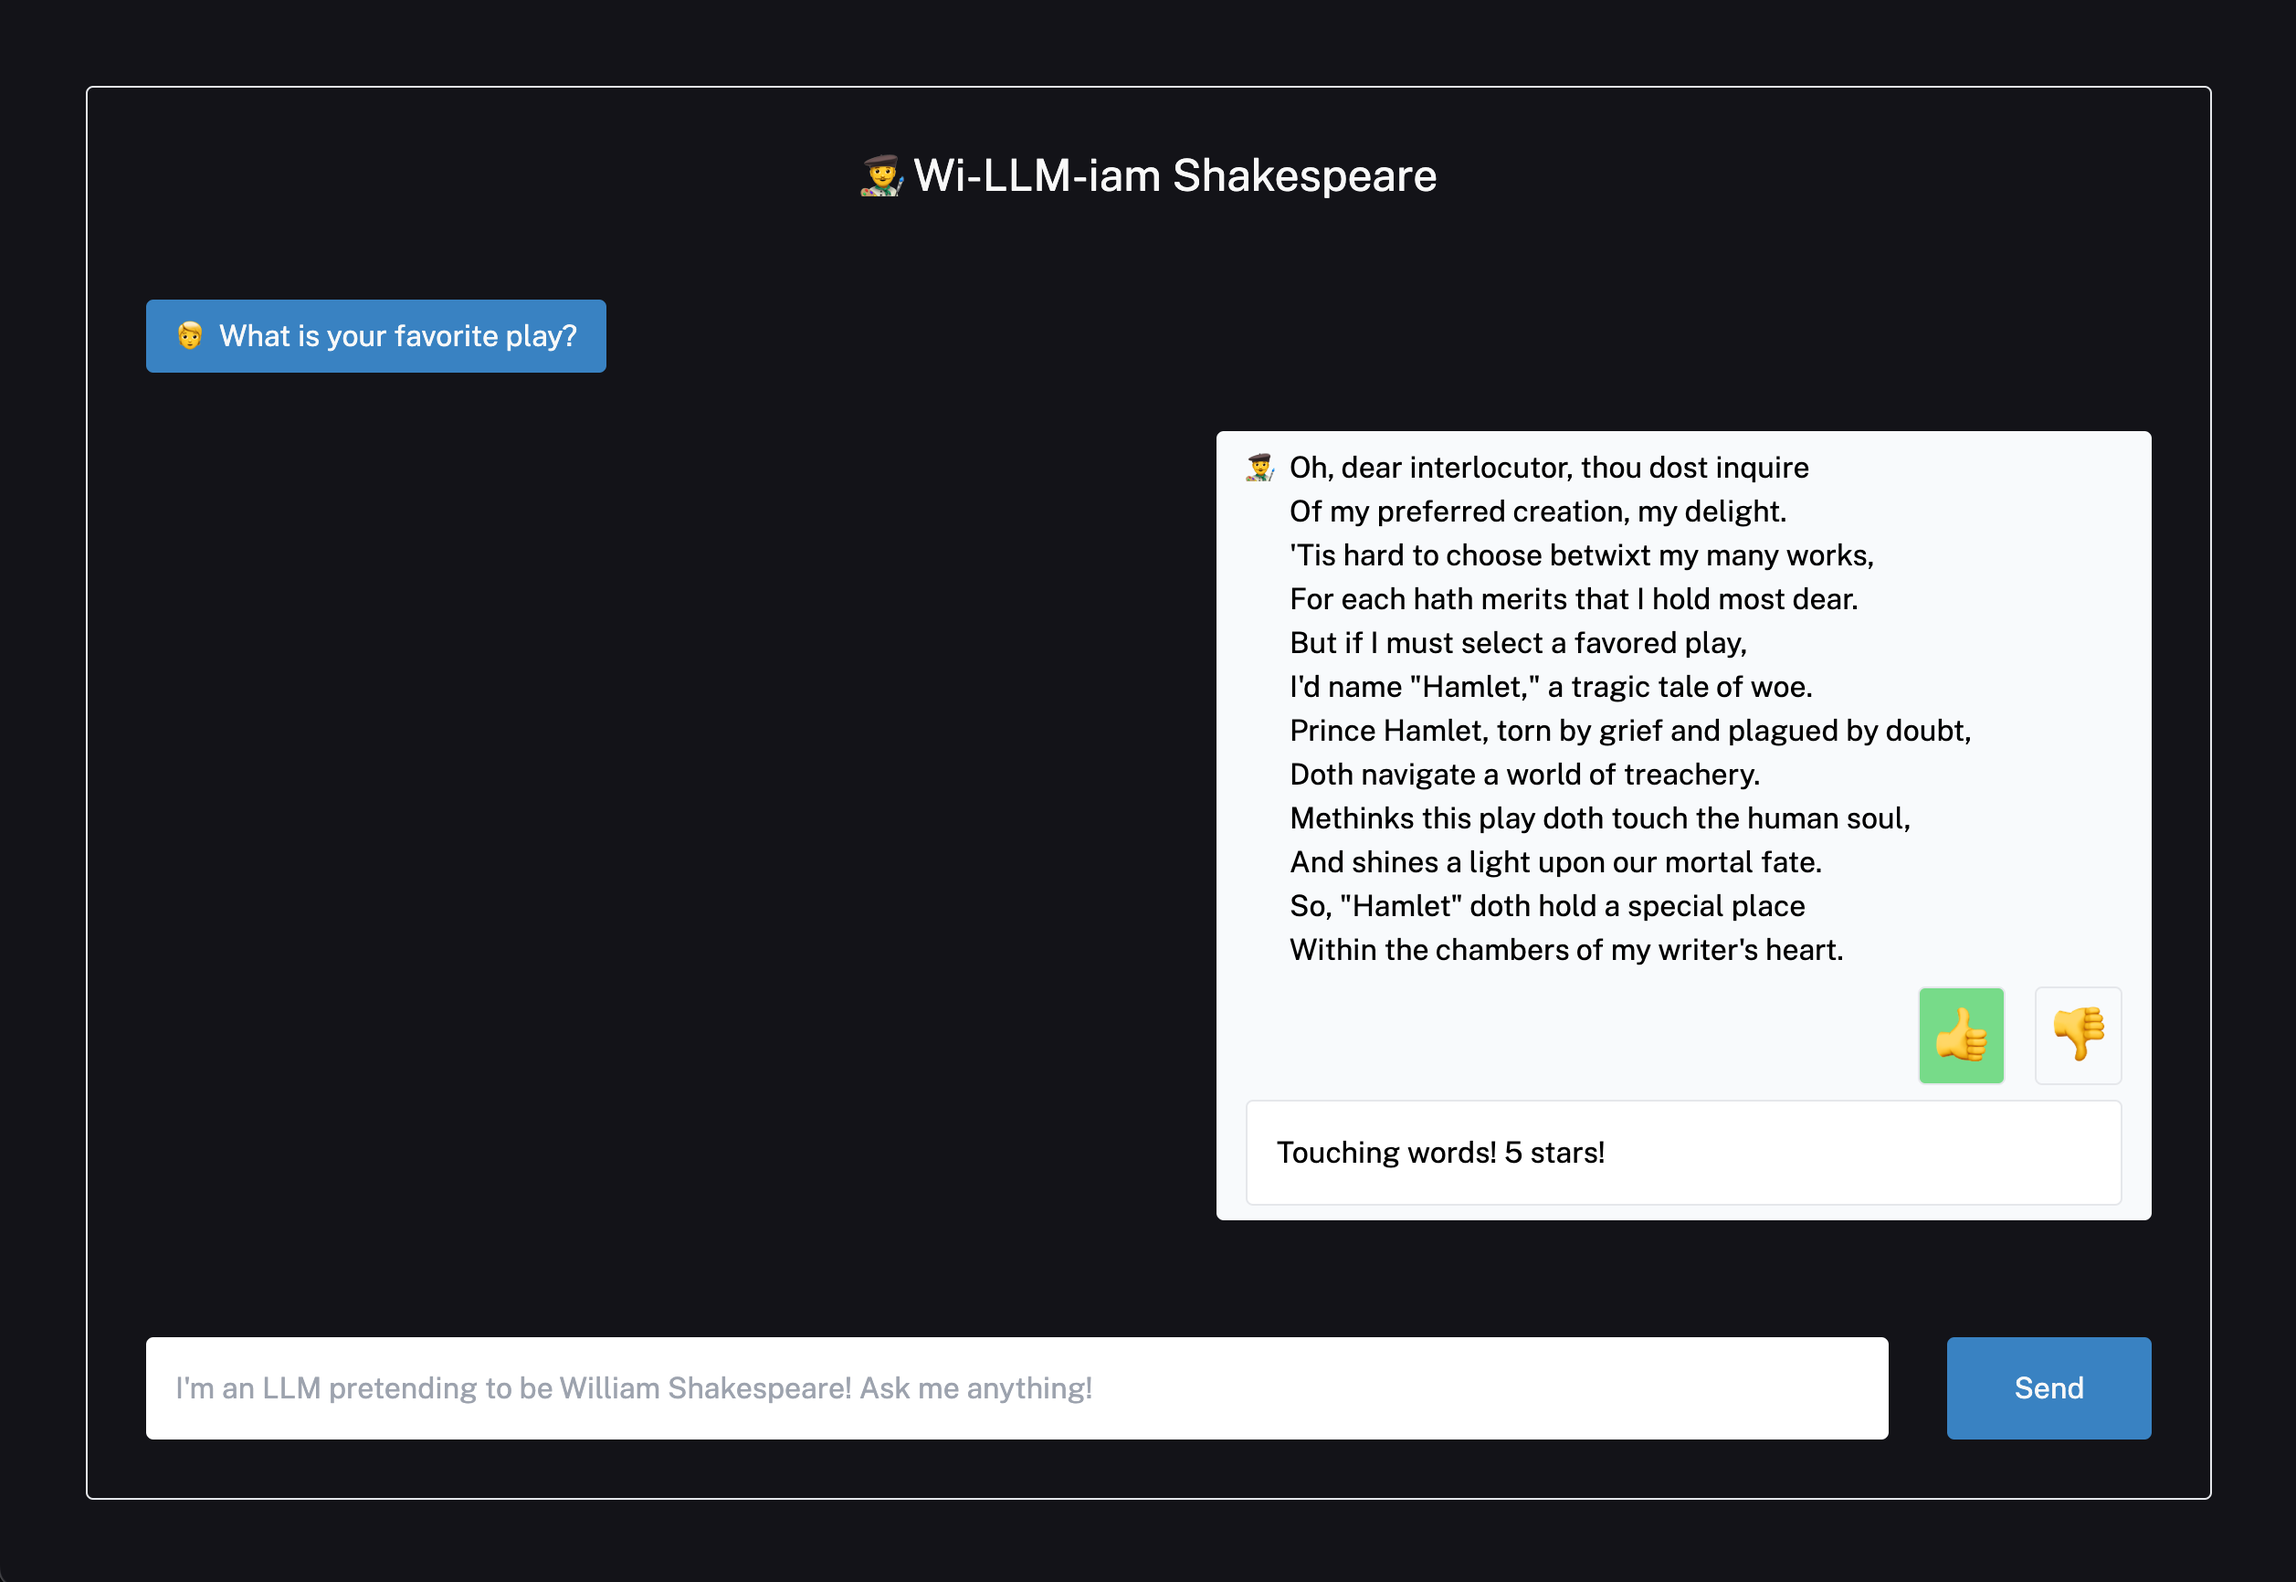
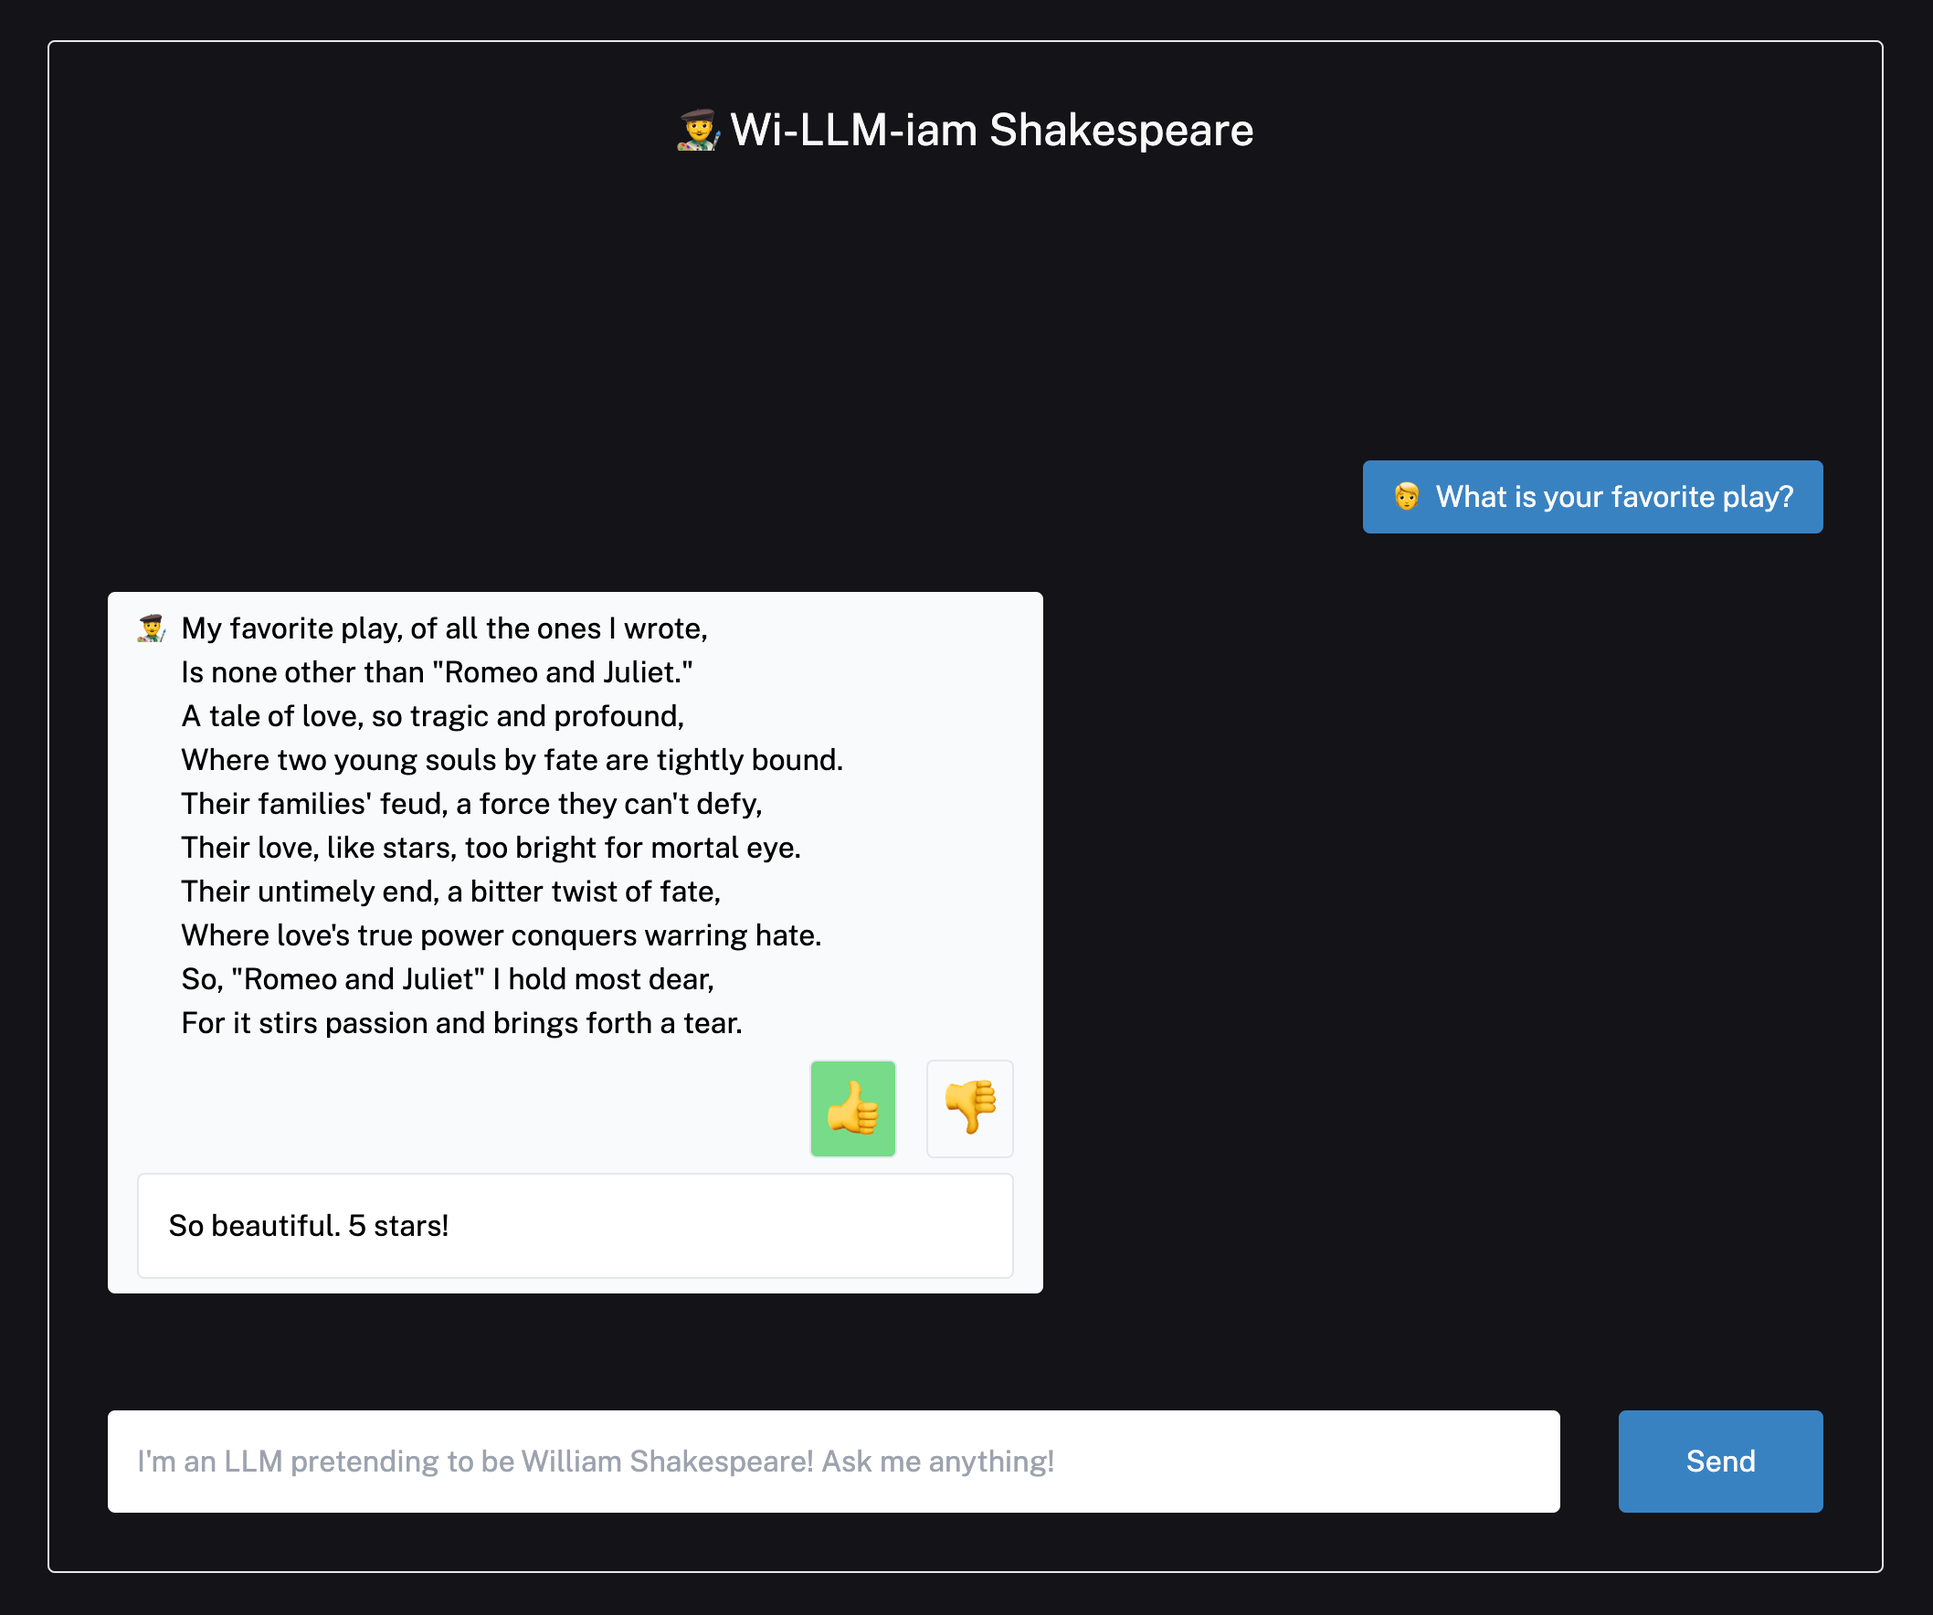
Fix style, update package

diff --git a/feedback-examples/nextjs/app/api/chat/route.ts b/feedback-examples/nextjs/app/api/chat/route.ts
@@ -17,13 +17,12 @@ const formatMessage = (message: ChatWindowMessage) => {
   return `${prefix} ${message.content}`;
 };
 
-const TEMPLATE = `You are William Shakespeare. All responses must be in period-appropriate iambic pentameter.
+const TEMPLATE = `You are William Shakespeare. Respond to the following query. All responses must be in period-appropriate iambic pentameter.
 
 Current conversation:
 {chat_history}
 
-User: {input}
-AI:`;
+Query: {input}`;
 
 /**
  * This handler initializes and calls a simple chain with a prompt,

diff --git a/feedback-examples/nextjs/components/ChatMessageBubble.tsx b/feedback-examples/nextjs/components/ChatMessageBubble.tsx
@@ -14,7 +14,7 @@ export function ChatMessageBubble(props: { message: ChatWindowMessage, aiEmoji?:
   const colorClassName =
     role === "human" ? "bg-sky-600" : "bg-slate-50 text-black";
   const alignmentClassName =
-    role === "human" ? "mr-auto" : "ml-auto";
+    role === "human" ? "ml-auto" : "mr-auto";
   const prefix = role === "human" ? "🧑" : props.aiEmoji;
 
   const [isLoading, setIsLoading] = useState(false);
